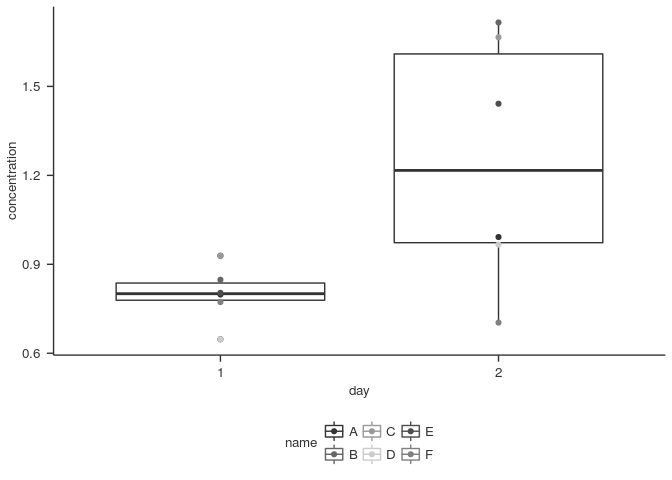
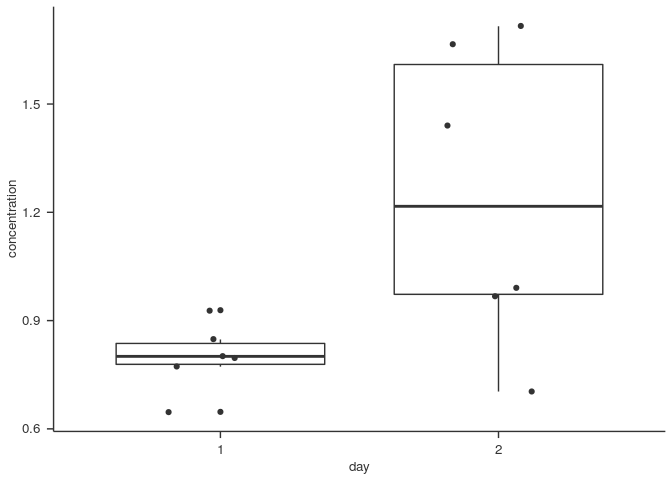
update documentation

diff --git a/vignettes/introduction.html b/vignettes/introduction.html
@@ -1933,18 +1933,31 @@ my_data</code></pre></div>
 </table>
 <p>Or you could create a plot like this:</p>
 <div class="sourceCode"><pre class="sourceCode r"><code class="sourceCode r"><span class="co"># try it</span>
+<span class="co"># use our data</span>
+<span class="co"># use column &quot;name&quot; as x-axis</span>
+<span class="co"># use column &quot;concentration&quot; as y-axis</span>
 <span class="kw">ggplot</span>(<span class="dt">data =</span> my_data, <span class="kw">aes</span>(<span class="dt">x =</span> name, <span class="dt">y =</span> concentration, <span class="dt">colour =</span> name)) +
+<span class="st">  </span><span class="co"># plot each value as a point</span>
 <span class="st">  </span><span class="kw">geom_point</span>() +
+<span class="st">  </span><span class="co"># draw a sub-plot (facet) for each day</span>
 <span class="st">  </span><span class="kw">facet_wrap</span>(~day) +
+<span class="st">  </span><span class="co"># add a nice black and white theme</span>
 <span class="st">  </span>global_theme</code></pre></div>
[1 lines of base64/hex data omitted]
 <p>Or a boxplot:</p>
 <div class="sourceCode"><pre class="sourceCode r"><code class="sourceCode r"><span class="co"># try it</span>
-<span class="kw">ggplot</span>(<span class="dt">data =</span> my_data, <span class="kw">aes</span>(<span class="dt">x =</span> day, <span class="dt">y =</span> concentration, <span class="dt">colour =</span> name, <span class="dt">group =</span> day)) +
+<span class="co"># use our data</span>
+<span class="co"># use column &quot;name&quot; as x-axis</span>
+<span class="co"># use column &quot;concentration&quot; as y-axis</span>
+<span class="kw">ggplot</span>(<span class="dt">data =</span> my_data, <span class="kw">aes</span>(<span class="dt">x =</span> day, <span class="dt">y =</span> concentration)) +
+<span class="st">  </span><span class="co"># draw boxplots</span>
 <span class="st">  </span><span class="kw">geom_boxplot</span>() +
-<span class="st">  </span><span class="kw">geom_point</span>() +
+<span class="st">  </span><span class="co"># draw each value as a point over the boxplot</span>
+<span class="st">  </span><span class="kw">geom_jitter</span>(<span class="dt">width =</span> <span class="fl">0.2</span>) +
+<span class="st">  </span><span class="co"># you could try</span>
+<span class="st">  </span><span class="co"># geom_point() as well ;)</span>
 <span class="st">  </span>global_theme</code></pre></div>
[2 lines of base64/hex data omitted]
 </div>
 <div id="where-to-get-help" class="section level2">
 <h2>Where to get help</h2>

diff --git a/README.md b/README.md
@@ -349,63 +349,63 @@ Take a look:
 result_list$all
 ```
 
-| position | sample\_id | name | day |      real|   recovery|  plate|    n|    raw|  raw\_mean|      raw\_sd|    raw\_cv|  concentration|  concentration\_sd|  concentration\_cv|
-|:---------|:-----------|:-----|:----|---------:|----------:|------:|----:|------:|----------:|------------:|----------:|--------------:|------------------:|------------------:|
-| A1       | CAL2       | CAL2 | NA  |  2000.000|  1.2883221|      1|    2|  34997|    36773.5|  2512.350394|  0.0683196|     2720.95384|        204.0845215|          0.0750048|
-| B1       | CAL3       | CAL3 | NA  |  1000.000|  1.1165534|      1|    2|  16341|    16110.0|   326.683333|  0.0202783|     1099.24658|         24.4756141|          0.0222658|
-| C1       | CAL4       | CAL4 | NA  |   500.000|  0.9085227|      1|    2|   7204|     6772.0|   610.940259|  0.0902156|      424.53303|         42.0421782|          0.0990316|
-| D1       | CAL5       | CAL5 | NA  |   250.000|  0.7002621|      1|    2|   3023|     2826.5|   277.892965|  0.0983170|      162.65340|         17.5533849|          0.1079190|
-| E1       | CAL8       | CAL8 | NA  |    31.250|  0.9124959|      1|    2|    579|      549.5|    41.719300|  0.0759223|       26.92844|          2.2444391|          0.0833483|
-| F1       | CAL9       | CAL9 | NA  |    15.625|  1.5568974|      1|    2|    501|      461.5|    55.861436|  0.1210432|       22.23766|          2.9540940|          0.1328419|
-| A2       | CAL2       | CAL2 | NA  |  2000.000|  1.4326317|      1|    2|  38550|    36773.5|  2512.350394|  0.0683196|     2720.95384|        204.0845215|          0.0750048|
-| B2       | CAL3       | CAL3 | NA  |  1000.000|  1.0819397|      1|    2|  15879|    16110.0|   326.683333|  0.0202783|     1099.24658|         24.4756141|          0.0222658|
-| C2       | CAL4       | CAL4 | NA  |   500.000|  0.7896094|      1|    2|   6340|     6772.0|   610.940259|  0.0902156|      424.53303|         42.0421782|          0.0990316|
-| D2       | CAL5       | CAL5 | NA  |   250.000|  0.6009651|      1|    2|   2630|     2826.5|   277.892965|  0.0983170|      162.65340|         17.5533849|          0.1079190|
-| E2       | CAL8       | CAL8 | NA  |    31.250|  0.8109242|      1|    2|    520|      549.5|    41.719300|  0.0759223|       26.92844|          2.2444391|          0.0833483|
-| F2       | CAL9       | CAL9 | NA  |    15.625|  1.2895233|      1|    2|    422|      461.5|    55.861436|  0.1210432|       22.23766|          2.9540940|          0.1328419|
-| A3       | A\_1       | A    | 1   |        NA|         NA|      1|    2|    638|      618.5|    27.577164|  0.0445872|       30.66020|          1.5009575|          0.0489546|
-| B3       | B\_1       | B    | 1   |        NA|         NA|      1|    2|    648|      657.5|    13.435029|  0.0204335|       32.78807|          0.7356405|          0.0224362|
-| C3       | C\_1       | C    | 1   |        NA|         NA|      1|    2|    667|      721.0|    76.367532|  0.1059189|       36.29164|          4.2191613|          0.1162571|
-| D3       | D\_1       | D    | 1   |        NA|         NA|      1|    2|    491|      500.5|    13.435029|  0.0268432|       24.30034|          0.7162246|          0.0294739|
-| E3       | E\_1       | E    | 1   |        NA|         NA|      1|    2|    618|      623.0|     7.071068|  0.0113500|       30.90368|          0.3851398|          0.0124626|
-| F3       | F\_1       | F    | 1   |        NA|         NA|      1|    2|    589|      598.5|    13.435029|  0.0224478|       29.57213|          0.7288912|          0.0246479|
-| A4       | A\_1       | A    | 1   |        NA|         NA|      1|    2|    599|      618.5|    27.577164|  0.0445872|       30.66020|          1.5009575|          0.0489546|
-| B4       | B\_1       | B    | 1   |        NA|         NA|      1|    2|    667|      657.5|    13.435029|  0.0204335|       32.78807|          0.7356405|          0.0224362|
-| C4       | C\_1       | C    | 1   |        NA|         NA|      1|    2|    775|      721.0|    76.367532|  0.1059189|       36.29164|          4.2191613|          0.1162571|
-| D4       | D\_1       | D    | 1   |        NA|         NA|      1|    2|    510|      500.5|    13.435029|  0.0268432|       24.30034|          0.7162246|          0.0294739|
-| E4       | E\_1       | E    | 1   |        NA|         NA|      1|    2|    628|      623.0|     7.071068|  0.0113500|       30.90368|          0.3851398|          0.0124626|
-| F4       | F\_1       | F    | 1   |        NA|         NA|      1|    2|    608|      598.5|    13.435029|  0.0224478|       29.57213|          0.7288912|          0.0246479|
-| A5       | A\_2       | A    | 2   |        NA|         NA|      1|    2|    736|      770.5|    48.790368|  0.0633230|       39.02892|          2.7133226|          0.0695208|
-| B5       | B\_2       | B    | 2   |        NA|         NA|      1|    2|   1335|     1340.0|     7.071068|  0.0052769|       71.65249|          0.4151683|          0.0057942|
-| C5       | C\_2       | C    | 2   |        NA|         NA|      1|    2|   1276|     1300.5|    34.648232|  0.0266422|       69.33795|          2.0283566|          0.0292532|
-| D5       | D\_2       | D    | 2   |        NA|         NA|      1|    2|    726|      750.5|    34.648232|  0.0461669|       37.91604|          1.9219176|          0.0506888|
-| E5       | E\_2       | E    | 2   |        NA|         NA|      1|    2|   1188|     1124.0|    90.509668|  0.0805246|       59.08606|          5.2231229|          0.0883986|
-| F5       | F\_2       | F    | 2   |        NA|         NA|      1|    2|    520|      544.5|    34.648232|  0.0636331|       26.65828|          1.8623798|          0.0698612|
-| A6       | A\_2       | A    | 2   |        NA|         NA|      1|    2|    805|      770.5|    48.790368|  0.0633230|       39.02892|          2.7133226|          0.0695208|
-| B6       | B\_2       | B    | 2   |        NA|         NA|      1|    2|   1345|     1340.0|     7.071068|  0.0052769|       71.65249|          0.4151683|          0.0057942|
-| C6       | C\_2       | C    | 2   |        NA|         NA|      1|    2|   1325|     1300.5|    34.648232|  0.0266422|       69.33795|          2.0283566|          0.0292532|
-| D6       | D\_2       | D    | 2   |        NA|         NA|      1|    2|    775|      750.5|    34.648232|  0.0461669|       37.91604|          1.9219176|          0.0506888|
-| E6       | E\_2       | E    | 2   |        NA|         NA|      1|    2|   1060|     1124.0|    90.509668|  0.0805246|       59.08606|          5.2231229|          0.0883986|
-| F6       | F\_2       | F    | 2   |        NA|         NA|      1|    2|    569|      544.5|    34.648232|  0.0636331|       26.65828|          1.8623798|          0.0698612|
+| position | sample\_id | name | day |  real|  recovery|  plate|    n|    raw|  raw\_mean|  raw\_sd|  raw\_cv|  concentration|  concentration\_sd|  concentration\_cv|
+|:---------|:-----------|:-----|:----|-----:|---------:|------:|----:|------:|----------:|--------:|--------:|--------------:|------------------:|------------------:|
+| A1       | CAL2       | CAL2 | NA  |  2000|      1.29|      1|    2|  34997|      36774|   2512.3|     0.07|           2721|             204.08|               0.08|
+| B1       | CAL3       | CAL3 | NA  |  1000|      1.12|      1|    2|  16341|      16110|    326.7|     0.02|           1099|              24.48|               0.02|
+| C1       | CAL4       | CAL4 | NA  |   500|      0.91|      1|    2|   7204|       6772|    610.9|     0.09|            425|              42.04|               0.10|
+| D1       | CAL5       | CAL5 | NA  |   250|      0.70|      1|    2|   3023|       2826|    277.9|     0.10|            163|              17.55|               0.11|
+| E1       | CAL8       | CAL8 | NA  |    31|      0.91|      1|    2|    579|        550|     41.7|     0.08|             27|               2.24|               0.08|
+| F1       | CAL9       | CAL9 | NA  |    16|      1.56|      1|    2|    501|        462|     55.9|     0.12|             22|               2.95|               0.13|
+| A2       | CAL2       | CAL2 | NA  |  2000|      1.43|      1|    2|  38550|      36774|   2512.3|     0.07|           2721|             204.08|               0.08|
+| B2       | CAL3       | CAL3 | NA  |  1000|      1.08|      1|    2|  15879|      16110|    326.7|     0.02|           1099|              24.48|               0.02|
+| C2       | CAL4       | CAL4 | NA  |   500|      0.79|      1|    2|   6340|       6772|    610.9|     0.09|            425|              42.04|               0.10|
+| D2       | CAL5       | CAL5 | NA  |   250|      0.60|      1|    2|   2630|       2826|    277.9|     0.10|            163|              17.55|               0.11|
+| E2       | CAL8       | CAL8 | NA  |    31|      0.81|      1|    2|    520|        550|     41.7|     0.08|             27|               2.24|               0.08|
+| F2       | CAL9       | CAL9 | NA  |    16|      1.29|      1|    2|    422|        462|     55.9|     0.12|             22|               2.95|               0.13|
+| A3       | A\_1       | A    | 1   |    NA|        NA|      1|    2|    638|        618|     27.6|     0.04|             31|               1.50|               0.05|
+| B3       | B\_1       | B    | 1   |    NA|        NA|      1|    2|    648|        658|     13.4|     0.02|             33|               0.74|               0.02|
+| C3       | C\_1       | C    | 1   |    NA|        NA|      1|    2|    667|        721|     76.4|     0.11|             36|               4.22|               0.12|
+| D3       | D\_1       | D    | 1   |    NA|        NA|      1|    2|    491|        500|     13.4|     0.03|             24|               0.72|               0.03|
+| E3       | E\_1       | E    | 1   |    NA|        NA|      1|    2|    618|        623|      7.1|     0.01|             31|               0.39|               0.01|
+| F3       | F\_1       | F    | 1   |    NA|        NA|      1|    2|    589|        598|     13.4|     0.02|             30|               0.73|               0.02|
+| A4       | A\_1       | A    | 1   |    NA|        NA|      1|    2|    599|        618|     27.6|     0.04|             31|               1.50|               0.05|
+| B4       | B\_1       | B    | 1   |    NA|        NA|      1|    2|    667|        658|     13.4|     0.02|             33|               0.74|               0.02|
+| C4       | C\_1       | C    | 1   |    NA|        NA|      1|    2|    775|        721|     76.4|     0.11|             36|               4.22|               0.12|
+| D4       | D\_1       | D    | 1   |    NA|        NA|      1|    2|    510|        500|     13.4|     0.03|             24|               0.72|               0.03|
+| E4       | E\_1       | E    | 1   |    NA|        NA|      1|    2|    628|        623|      7.1|     0.01|             31|               0.39|               0.01|
+| F4       | F\_1       | F    | 1   |    NA|        NA|      1|    2|    608|        598|     13.4|     0.02|             30|               0.73|               0.02|
+| A5       | A\_2       | A    | 2   |    NA|        NA|      1|    2|    736|        770|     48.8|     0.06|             39|               2.71|               0.07|
+| B5       | B\_2       | B    | 2   |    NA|        NA|      1|    2|   1335|       1340|      7.1|     0.01|             72|               0.42|               0.01|
+| C5       | C\_2       | C    | 2   |    NA|        NA|      1|    2|   1276|       1300|     34.6|     0.03|             69|               2.03|               0.03|
+| D5       | D\_2       | D    | 2   |    NA|        NA|      1|    2|    726|        750|     34.6|     0.05|             38|               1.92|               0.05|
+| E5       | E\_2       | E    | 2   |    NA|        NA|      1|    2|   1188|       1124|     90.5|     0.08|             59|               5.22|               0.09|
+| F5       | F\_2       | F    | 2   |    NA|        NA|      1|    2|    520|        544|     34.6|     0.06|             27|               1.86|               0.07|
+| A6       | A\_2       | A    | 2   |    NA|        NA|      1|    2|    805|        770|     48.8|     0.06|             39|               2.71|               0.07|
+| B6       | B\_2       | B    | 2   |    NA|        NA|      1|    2|   1345|       1340|      7.1|     0.01|             72|               0.42|               0.01|
+| C6       | C\_2       | C    | 2   |    NA|        NA|      1|    2|   1325|       1300|     34.6|     0.03|             69|               2.03|               0.03|
+| D6       | D\_2       | D    | 2   |    NA|        NA|      1|    2|    775|        750|     34.6|     0.05|             38|               1.92|               0.05|
+| E6       | E\_2       | E    | 2   |    NA|        NA|      1|    2|   1060|       1124|     90.5|     0.08|             59|               5.22|               0.09|
+| F6       | F\_2       | F    | 2   |    NA|        NA|      1|    2|    569|        544|     34.6|     0.06|             27|               1.86|               0.07|
 
 ``` r
 result_list$samples
 ```
 
-| position | sample\_id | name | day |  plate|    n|     raw|    raw\_sd|    raw\_cv|  concentration|  concentration\_sd|  concentration\_cv|
-|:---------|:-----------|:-----|:----|------:|----:|-------:|----------:|----------:|--------------:|------------------:|------------------:|
-| A3       | A\_1       | A    | 1   |      1|    2|   618.5|  27.577164|  0.0445872|       30.66020|          1.5009575|          0.0489546|
-| B3       | B\_1       | B    | 1   |      1|    2|   657.5|  13.435029|  0.0204335|       32.78807|          0.7356405|          0.0224362|
-| C3       | C\_1       | C    | 1   |      1|    2|   721.0|  76.367532|  0.1059189|       36.29164|          4.2191613|          0.1162571|
-| D3       | D\_1       | D    | 1   |      1|    2|   500.5|  13.435029|  0.0268432|       24.30034|          0.7162246|          0.0294739|
-| E3       | E\_1       | E    | 1   |      1|    2|   623.0|   7.071068|  0.0113500|       30.90368|          0.3851398|          0.0124626|
-| F3       | F\_1       | F    | 1   |      1|    2|   598.5|  13.435029|  0.0224478|       29.57213|          0.7288912|          0.0246479|
-| A5       | A\_2       | A    | 2   |      1|    2|   770.5|  48.790368|  0.0633230|       39.02892|          2.7133226|          0.0695208|
-| B5       | B\_2       | B    | 2   |      1|    2|  1340.0|   7.071068|  0.0052769|       71.65249|          0.4151683|          0.0057942|
-| C5       | C\_2       | C    | 2   |      1|    2|  1300.5|  34.648232|  0.0266422|       69.33795|          2.0283566|          0.0292532|
-| D5       | D\_2       | D    | 2   |      1|    2|   750.5|  34.648232|  0.0461669|       37.91604|          1.9219176|          0.0506888|
-| E5       | E\_2       | E    | 2   |      1|    2|  1124.0|  90.509668|  0.0805246|       59.08606|          5.2231229|          0.0883986|
-| F5       | F\_2       | F    | 2   |      1|    2|   544.5|  34.648232|  0.0636331|       26.65828|          1.8623798|          0.0698612|
+| position | sample\_id | name | day |  plate|    n|   raw|  raw\_sd|  raw\_cv|  concentration|  concentration\_sd|  concentration\_cv|
+|:---------|:-----------|:-----|:----|------:|----:|-----:|--------:|--------:|--------------:|------------------:|------------------:|
+| A3       | A\_1       | A    | 1   |      1|    2|   618|     27.6|     0.04|             31|               1.50|               0.05|
+| B3       | B\_1       | B    | 1   |      1|    2|   658|     13.4|     0.02|             33|               0.74|               0.02|
+| C3       | C\_1       | C    | 1   |      1|    2|   721|     76.4|     0.11|             36|               4.22|               0.12|
+| D3       | D\_1       | D    | 1   |      1|    2|   500|     13.4|     0.03|             24|               0.72|               0.03|
+| E3       | E\_1       | E    | 1   |      1|    2|   623|      7.1|     0.01|             31|               0.39|               0.01|
+| F3       | F\_1       | F    | 1   |      1|    2|   598|     13.4|     0.02|             30|               0.73|               0.02|
+| A5       | A\_2       | A    | 2   |      1|    2|   770|     48.8|     0.06|             39|               2.71|               0.07|
+| B5       | B\_2       | B    | 2   |      1|    2|  1340|      7.1|     0.01|             72|               0.42|               0.01|
+| C5       | C\_2       | C    | 2   |      1|    2|  1300|     34.6|     0.03|             69|               2.03|               0.03|
+| D5       | D\_2       | D    | 2   |      1|    2|   750|     34.6|     0.05|             38|               1.92|               0.05|
+| E5       | E\_2       | E    | 2   |      1|    2|  1124|     90.5|     0.08|             59|               5.22|               0.09|
+| F5       | F\_2       | F    | 2   |      1|    2|   544|     34.6|     0.06|             27|               1.86|               0.07|
 
 ``` r
 result_list$plate1$plot
@@ -492,20 +492,20 @@ my_data <- my_data %>%
 my_data
 ```
 
-| position | sample\_id | name | day |  plate|    n|     raw|    raw\_sd|    raw\_cv|  concentration|  concentration\_sd|  concentration\_cv|
-|:---------|:-----------|:-----|:----|------:|----:|-------:|----------:|----------:|--------------:|------------------:|------------------:|
-| A3       | A\_1       | A    | 1   |      1|    2|   618.5|  27.577164|  0.0445872|       41.80706|          1.8454799|          0.0441428|
-| B3       | B\_1       | B    | 1   |      1|    2|   657.5|  13.435029|  0.0204335|       44.41631|          0.8985306|          0.0202297|
-| C3       | C\_1       | C    | 1   |      1|    2|   721.0|  76.367532|  0.1059189|       48.65989|          5.1027895|          0.1048665|
-| D3       | D\_1       | D    | 1   |      1|    2|   500.5|  13.435029|  0.0268432|       33.90254|          0.9009791|          0.0265756|
-| E3       | E\_1       | E    | 1   |      1|    2|   623.0|   7.071068|  0.0113500|       42.10838|          0.4731650|          0.0112368|
-| F3       | F\_1       | F    | 1   |      1|    2|   598.5|  13.435029|  0.0224478|       40.46858|          0.8993736|          0.0222240|
-| A5       | A\_2       | A    | 2   |      1|    2|   770.5|  48.790368|  0.0633230|       51.96711|          3.2579376|          0.0626923|
-| B5       | B\_2       | B    | 2   |      1|    2|  1340.0|   7.071068|  0.0052769|       89.88105|          0.4695646|          0.0052243|
-| C5       | C\_2       | C    | 2   |      1|    2|  1300.5|  34.648232|  0.0266422|       87.25746|          2.3015545|          0.0263766|
-| D5       | D\_2       | D    | 2   |      1|    2|   750.5|  34.648232|  0.0461669|       50.63171|          2.3142111|          0.0457068|
-| E5       | E\_2       | E    | 2   |      1|    2|  1124.0|  90.509668|  0.0805246|       75.52384|          6.0210051|          0.0797232|
-| F5       | F\_2       | F    | 2   |      1|    2|   544.5|  34.648232|  0.0636331|       36.85170|          2.3216325|          0.0629993|
+| position | sample\_id | name | day |  plate|    n|   raw|  raw\_sd|  raw\_cv|  concentration|  concentration\_sd|  concentration\_cv|
+|:---------|:-----------|:-----|:----|------:|----:|-----:|--------:|--------:|--------------:|------------------:|------------------:|
+| A3       | A\_1       | A    | 1   |      1|    2|   618|     27.6|     0.04|             42|               1.85|               0.04|
+| B3       | B\_1       | B    | 1   |      1|    2|   658|     13.4|     0.02|             44|               0.90|               0.02|
+| C3       | C\_1       | C    | 1   |      1|    2|   721|     76.4|     0.11|             49|               5.10|               0.10|
+| D3       | D\_1       | D    | 1   |      1|    2|   500|     13.4|     0.03|             34|               0.90|               0.03|
+| E3       | E\_1       | E    | 1   |      1|    2|   623|      7.1|     0.01|             42|               0.47|               0.01|
+| F3       | F\_1       | F    | 1   |      1|    2|   598|     13.4|     0.02|             40|               0.90|               0.02|
+| A5       | A\_2       | A    | 2   |      1|    2|   770|     48.8|     0.06|             52|               3.26|               0.06|
+| B5       | B\_2       | B    | 2   |      1|    2|  1340|      7.1|     0.01|             90|               0.47|               0.01|
+| C5       | C\_2       | C    | 2   |      1|    2|  1300|     34.6|     0.03|             87|               2.30|               0.03|
+| D5       | D\_2       | D    | 2   |      1|    2|   750|     34.6|     0.05|             51|               2.31|               0.05|
+| E5       | E\_2       | E    | 2   |      1|    2|  1124|     90.5|     0.08|             76|               6.02|               0.08|
+| F5       | F\_2       | F    | 2   |      1|    2|   544|     34.6|     0.06|             37|               2.32|               0.06|
 
 This time the result was stored. Be careful when overwriting data. You can always go back and run `sets_read()` again :).
 
@@ -520,28 +520,34 @@ my_data <- my_data %>%
 my_data
 ```
 
-| position | sample\_id | name | day |  plate|    n|     raw|    raw\_sd|    raw\_cv|  concentration|  concentration\_sd|  concentration\_cv|
-|:---------|:-----------|:-----|:----|------:|----:|-------:|----------:|----------:|--------------:|------------------:|------------------:|
-| A3       | A\_1       | A    | 1   |      1|    2|   618.5|  27.577164|  0.0445872|      0.7979817|          1.8454799|          0.0441428|
-| B3       | B\_1       | B    | 1   |      1|    2|   657.5|  13.435029|  0.0204335|      0.8477851|          0.8985306|          0.0202297|
-| C3       | C\_1       | C    | 1   |      1|    2|   721.0|  76.367532|  0.1059189|      0.9287833|          5.1027895|          0.1048665|
-| D3       | D\_1       | D    | 1   |      1|    2|   500.5|  13.435029|  0.0268432|      0.6471062|          0.9009791|          0.0265756|
-| E3       | E\_1       | E    | 1   |      1|    2|   623.0|   7.071068|  0.0113500|      0.8037331|          0.4731650|          0.0112368|
-| F3       | F\_1       | F    | 1   |      1|    2|   598.5|  13.435029|  0.0224478|      0.7724339|          0.8993736|          0.0222240|
-| A5       | A\_2       | A    | 2   |      1|    2|   770.5|  48.790368|  0.0633230|      0.9919092|          3.2579376|          0.0626923|
-| B5       | B\_2       | B    | 2   |      1|    2|  1340.0|   7.071068|  0.0052769|      1.7155819|          0.4695646|          0.0052243|
-| C5       | C\_2       | C    | 2   |      1|    2|  1300.5|  34.648232|  0.0266422|      1.6655047|          2.3015545|          0.0263766|
-| D5       | D\_2       | D    | 2   |      1|    2|   750.5|  34.648232|  0.0461669|      0.9664200|          2.3142111|          0.0457068|
-| E5       | E\_2       | E    | 2   |      1|    2|  1124.0|  90.509668|  0.0805246|      1.4415423|          6.0210051|          0.0797232|
-| F5       | F\_2       | F    | 2   |      1|    2|   544.5|  34.648232|  0.0636331|      0.7033975|          2.3216325|          0.0629993|
+| position | sample\_id | name | day |  plate|    n|   raw|  raw\_sd|  raw\_cv|  concentration|  concentration\_sd|  concentration\_cv|
+|:---------|:-----------|:-----|:----|------:|----:|-----:|--------:|--------:|--------------:|------------------:|------------------:|
+| A3       | A\_1       | A    | 1   |      1|    2|   618|     27.6|     0.04|           0.80|               1.85|               0.04|
+| B3       | B\_1       | B    | 1   |      1|    2|   658|     13.4|     0.02|           0.85|               0.90|               0.02|
+| C3       | C\_1       | C    | 1   |      1|    2|   721|     76.4|     0.11|           0.93|               5.10|               0.10|
+| D3       | D\_1       | D    | 1   |      1|    2|   500|     13.4|     0.03|           0.65|               0.90|               0.03|
+| E3       | E\_1       | E    | 1   |      1|    2|   623|      7.1|     0.01|           0.80|               0.47|               0.01|
+| F3       | F\_1       | F    | 1   |      1|    2|   598|     13.4|     0.02|           0.77|               0.90|               0.02|
+| A5       | A\_2       | A    | 2   |      1|    2|   770|     48.8|     0.06|           0.99|               3.26|               0.06|
+| B5       | B\_2       | B    | 2   |      1|    2|  1340|      7.1|     0.01|           1.72|               0.47|               0.01|
+| C5       | C\_2       | C    | 2   |      1|    2|  1300|     34.6|     0.03|           1.67|               2.30|               0.03|
+| D5       | D\_2       | D    | 2   |      1|    2|   750|     34.6|     0.05|           0.97|               2.31|               0.05|
+| E5       | E\_2       | E    | 2   |      1|    2|  1124|     90.5|     0.08|           1.44|               6.02|               0.08|
+| F5       | F\_2       | F    | 2   |      1|    2|   544|     34.6|     0.06|           0.70|               2.32|               0.06|
 
 Or you could create a plot like this:
 
 ``` r
 # try it
+# use our data
+# use column "name" as x-axis
+# use column "concentration" as y-axis
 ggplot(data = my_data, aes(x = name, y = concentration, colour = name)) +
+  # plot each value as a point
   geom_point() +
+  # draw a sub-plot (facet) for each day
   facet_wrap(~day) +
+  # add a nice black and white theme
   global_theme
 ```
 
@@ -551,9 +557,16 @@ Or a boxplot:
 
 ``` r
 # try it
-ggplot(data = my_data, aes(x = day, y = concentration, colour = name, group = day)) +
+# use our data
+# use column "name" as x-axis
+# use column "concentration" as y-axis
+ggplot(data = my_data, aes(x = day, y = concentration)) +
+  # draw boxplots
   geom_boxplot() +
-  geom_point() +
+  # draw each value as a point over the boxplot
+  geom_jitter(width = 0.2) +
+  # you could try
+  # geom_point() as well ;)
   global_theme
 ```
 
